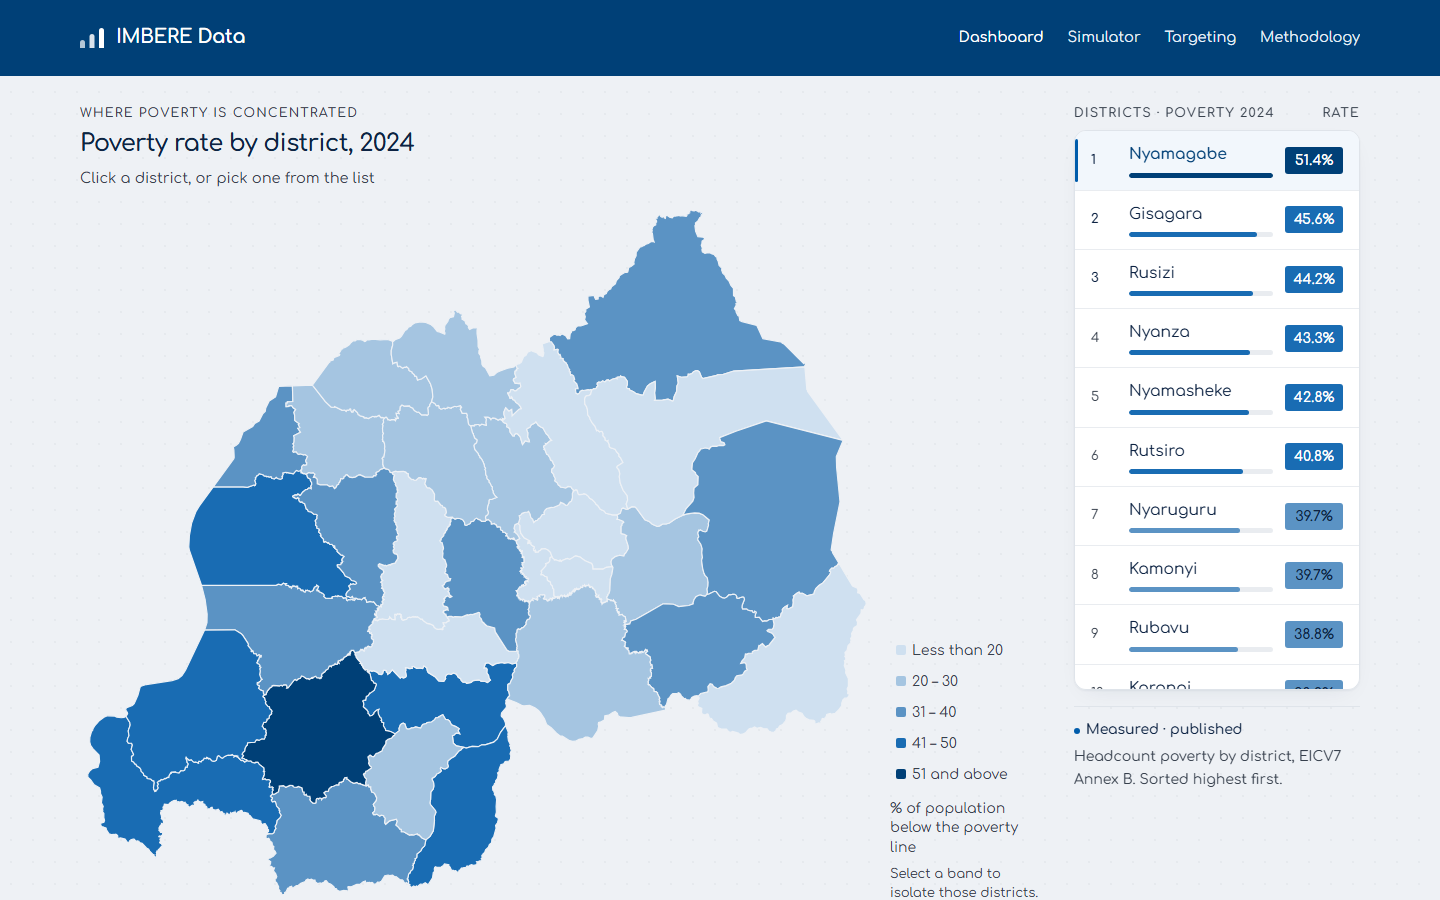
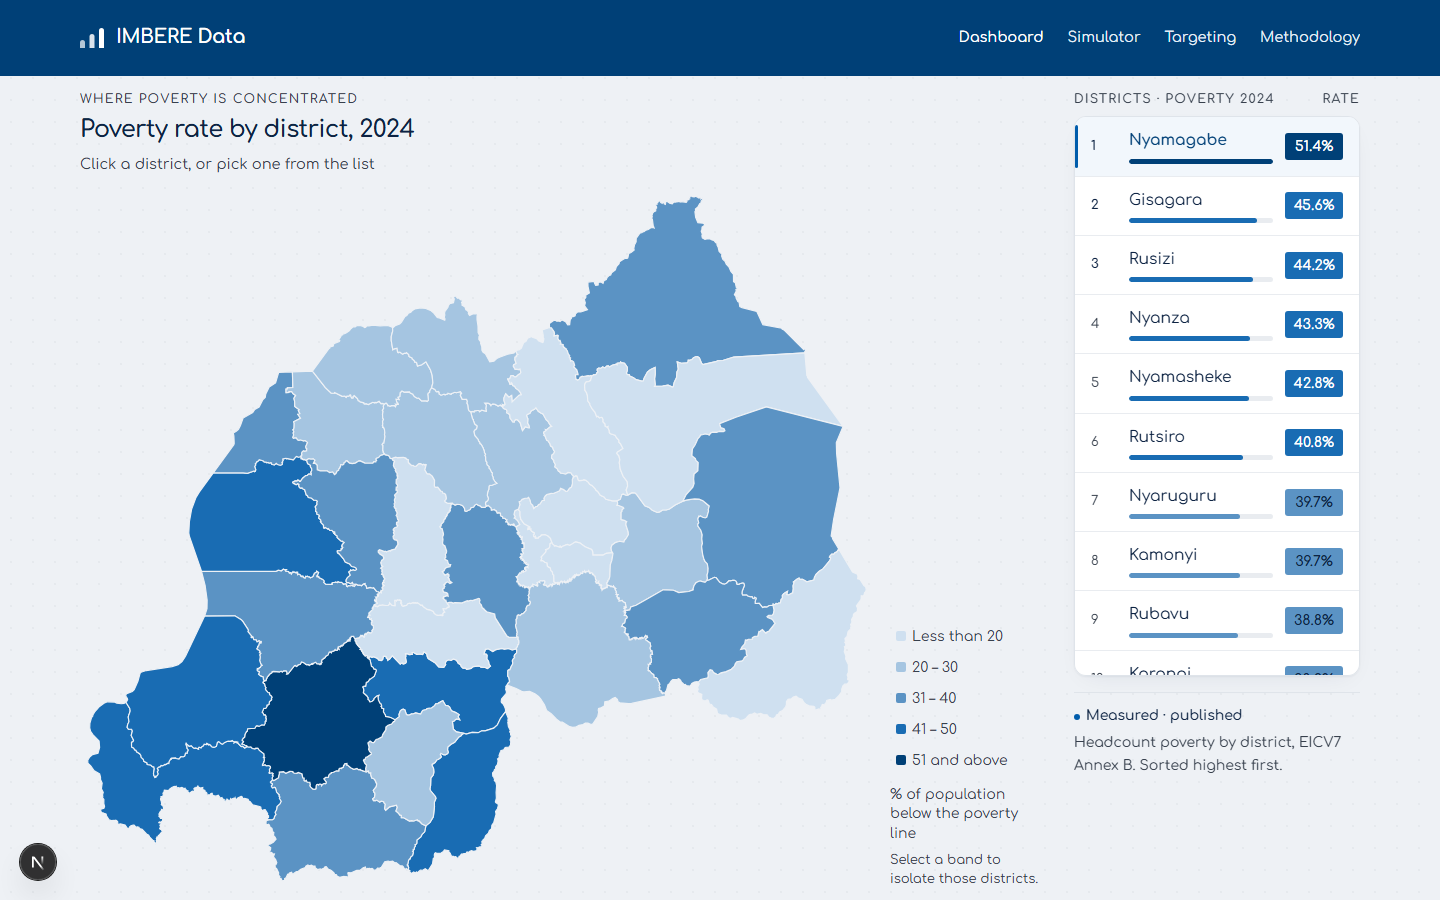
Refresh headline figures and add policy recommendations
Restate the README against the regenerated data layer: PMT accuracy 71.0 -> 78.2,
leakage 29.0% -> 21.9%, the universal ratio 2.5x -> 2.7x, hold-out AUC 0.807 ->
0.857, and the calibrated marginals (shock incidence 37.1%, mobile money 86.9%,
savings 68.2%).

Add a Recommendations section after the headline result — five programme
implications read off the calibrated layer: prefer a proxy-means test where a
recent survey exists, keep geographic targeting as the cheap fallback, index
disaster response to shock exposure rather than poverty status alone, report
intervals with point estimates, and treat access as solved but resilience as
not. Each is framed as a statement about the method, not about Rwanda, and the
section closes by saying any figure that moves by more than its own interval
once EICV7 is loaded is provisional.

Correct the development note on RNG: the rules no longer share one generator in
sequence, so reordering or subsetting the rule list no longer moves the figures.
Recapture the five screenshots against the rebuilt UI.

diff --git a/README.md b/README.md
@@ -74,21 +74,57 @@ At a **RWF 300m** budget with **RWF 150,000** per beneficiary (2,000 households,
 
 | Rule | Accuracy | Poor reached | Leakage | Cost per poor reached |
 |---|---:|---:|---:|---:|
-| Universal | 28.6% | 13.8% | 71.5% | RWF 525,394 |
-| Geographic | 45.6% | 22.1% | 54.4% | RWF 328,587 |
-| Community-based | 56.8% | 27.5% | 43.2% | RWF 264,085 |
-| Financial-exclusion first | 58.9% | 28.5% | 41.1% | RWF 254,885 |
-| **Proxy-means test** | **71.0%** | **34.4%** | **29.0%** | **RWF 211,268** |
+| Universal | 28.8% | 13.9% | 71.2% | RWF 520,833 |
+| Geographic | 45.3% | 21.9% | 54.7% | RWF 331,126 |
+| Community-based | 57.6% | 27.9% | 42.4% | RWF 260,417 |
+| Financial-exclusion first | 61.0% | 29.5% | 39.0% | RWF 246,103 |
+| **Proxy-means test** | **78.2%** | **37.8%** | **21.9%** | **RWF 191,939** |
 
-**On the calibrated layer, the proxy-means rule reaches 2.5× more poor households than universal
-selection for the same money, and cuts leakage from 71.5% to 29.0%.** Read the ratio as a statement
+**On the calibrated layer, the proxy-means rule reaches 2.7× more poor households than universal
+selection for the same money, and cuts leakage from 71.2% to 21.9%.** Read the ratio as a statement
 about the method rather than about Rwanda: the joint distribution underneath it was calibrated to
-published EICV7 marginals, so 2.5× is what a proxy-means test achieves *when* asset–consumption
+published EICV7 marginals, so 2.7× is what a proxy-means test achieves *when* asset–consumption
 separation looks like the published gradients. Geographic targeting captures most of the gain at a
 fraction of the data cost — which matters where a full household survey is unavailable.
 
 > These figures come from calibrated synthetic household rows. The engines do not change when the
 > real EICV7 microdata is loaded — only the rows they read. See [Method](#method).
+
+---
+
+## Recommendations
+
+Five programme implications, read from the calibrated layer above. Each is a statement about the
+*method* — what a rule of this kind achieves **when** asset–consumption separation looks like the
+published EICV7 gradients — and each needs re-checking against the real microdata before it
+informs a budget.
+
+1. **Prefer a proxy-means test to a universal transfer wherever a recent survey exists.** For the
+   same RWF 300m it reaches 2.7× more poor households and cuts leakage from 71.2% to 21.9%. The
+   gain is large enough to pay for the household survey that supplies its features.
+
+2. **Keep geographic targeting as the operational fallback, not the ambition.** Ranking districts
+   by poverty rate reaches 21.9% of the poor — most of what community-based listing achieves
+   (27.9%) at a fraction of the data cost. It is the right rule between survey rounds, and the
+   only one that works where no survey exists at all.
+
+3. **Index disaster response to shock exposure, not only to poverty status.** 37.1% of households
+   reported a severe shock in the past year, and only 30% of those exposed took any financial
+   mitigation measure. A roster frozen at the last poverty line misses the households that cross
+   it *after* the shock — precisely the population a drought transfer is meant to reach.
+
+4. **Report intervals alongside point estimates.** Every headline figure now carries a bootstrap
+   95% interval over the household sample. Where an interval straddles the gap between two rules,
+   the data cannot choose between them and the write-up should say so.
+
+5. **Treat access as solved and resilience as not.** Mobile money reaches 86.9% of adults while
+   only 68.2% save. The binding constraint is no longer an account — it is a buffer. Cash paired
+   with a savings or insurance nudge does more per franc than either alone.
+
+> **These are prototype implications, not findings about Rwanda.** Household rows are calibrated
+> synthetic, and the rules measure selection performance, not programme impact. Load the EICV7
+> microdata, re-run `evaluate_targeting`, and treat any figure that moves by more than its own
+> interval as provisional.
 
 ---
 
@@ -221,8 +257,8 @@ Real inputs and modelled outputs are kept strictly separate in code and in the U
 - **District poverty, populations, national indicators, shock prevalence and coping responses**
   are transcribed from published NISR/FinScope sources. Never modelled.
 - **Household rows** are synthetic. Marginals are calibrated to published EICV7 figures:
-  poverty 27.4%, extreme poverty 5.7%, shock incidence 37.2%, mobile money 86.7%,
-  savings 68.5%, health insurance 85.5%, financial-health bands 9.9 / 56.4 / 30.7 / 3.0.
+  poverty 27.4%, extreme poverty 5.7%, shock incidence 37.1%, mobile money 86.9%,
+  savings 68.2%, health insurance 85.6%, financial-health bands 9.9 / 56.4 / 30.7 / 3.0.
   The joint distribution is not observed data.
 - **Shock exposure and loss parameters** are stated assumptions, surfaced in the UI and in
   `api/app/analytics.py`. They are not estimated from EICV7.
@@ -234,10 +270,10 @@ Real inputs and modelled outputs are kept strictly separate in code and in the U
 Proxy-means poverty risk model — `HistGradientBoostingClassifier`, consumption excluded from the
 feature set by design.
 
-- Hold-out AUC: **0.807** (logistic baseline 0.811)
+- Hold-out AUC: **0.857** (logistic baseline 0.861)
 - Features: district, province, head's education, income source, urban, household size,
   11 asset/housing indicators, district poverty rate
-- Top signals: district poverty rate, TV ownership, modern floor, head's education
+- Top signals: head's education, district poverty rate, TV ownership, income source, modern floor
 
 AUC is measured on synthetic rows and describes the prototype, not Rwanda. Re-run against the
 EICV7 file for publishable accuracy.
@@ -250,9 +286,10 @@ Non-obvious constraints that are easy to break when changing this repo:
 
 - **`data/processed/` is generated but committed on purpose.** Don't gitignore it; the API loads
   it at startup and needs no build step.
-- **The targeting rules share one RNG in sequence.** `/api/targeting` builds its list from
-  `analytics.RULES` in order; reordering or deduplicating it changes the universal/geographic
-  numbers quoted in the table above.
+- **Each targeting rule draws from its own RNG stream.** `_rule_rng` derives a generator from the
+  seed and the rule's fixed position in `analytics.RULES`, so reordering or subsetting the rule
+  list no longer moves the figures quoted above — and one score vector per rule is reused by the
+  headline, the coverage curve and the bootstrap, so all three describe the same allocation.
 - **Documented figures are duplicated.** The headline table appears in this README and in the
   companion methodology and submission write-ups; regenerating the data layer with a different
   seed or calibration means updating all of them plus `EXPECTED` in
